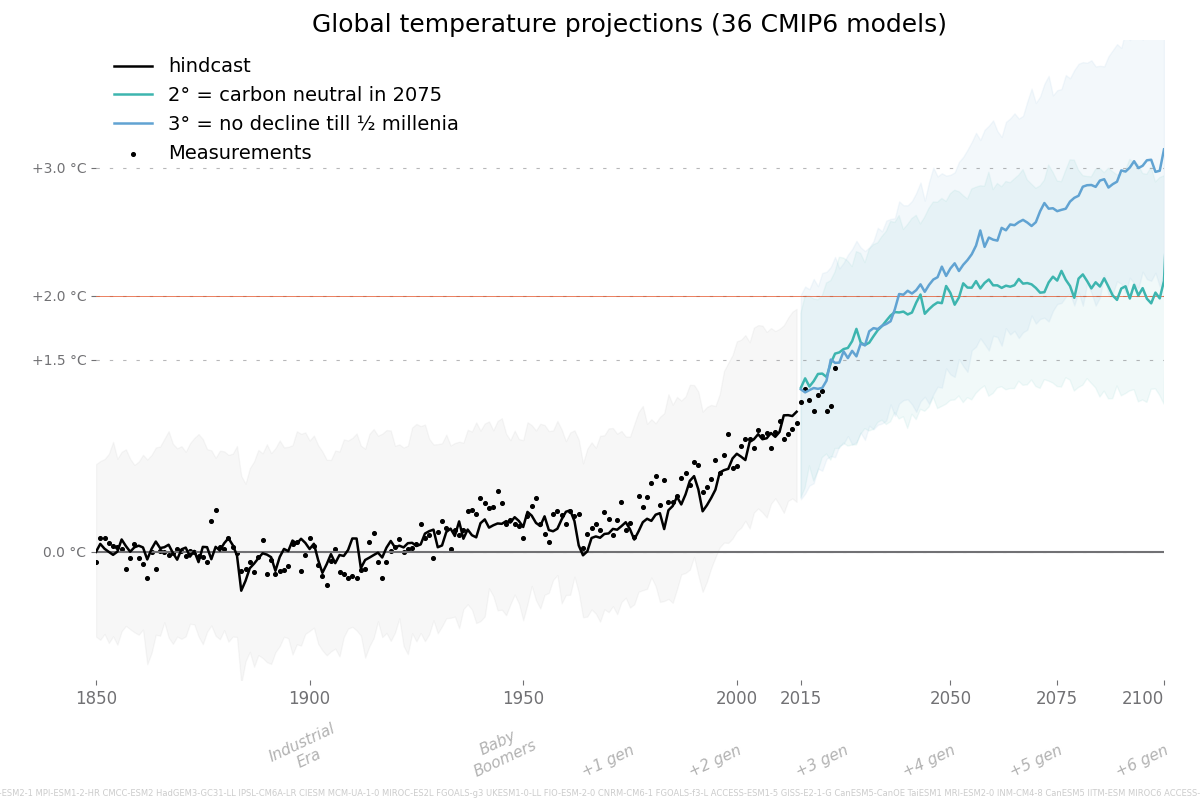
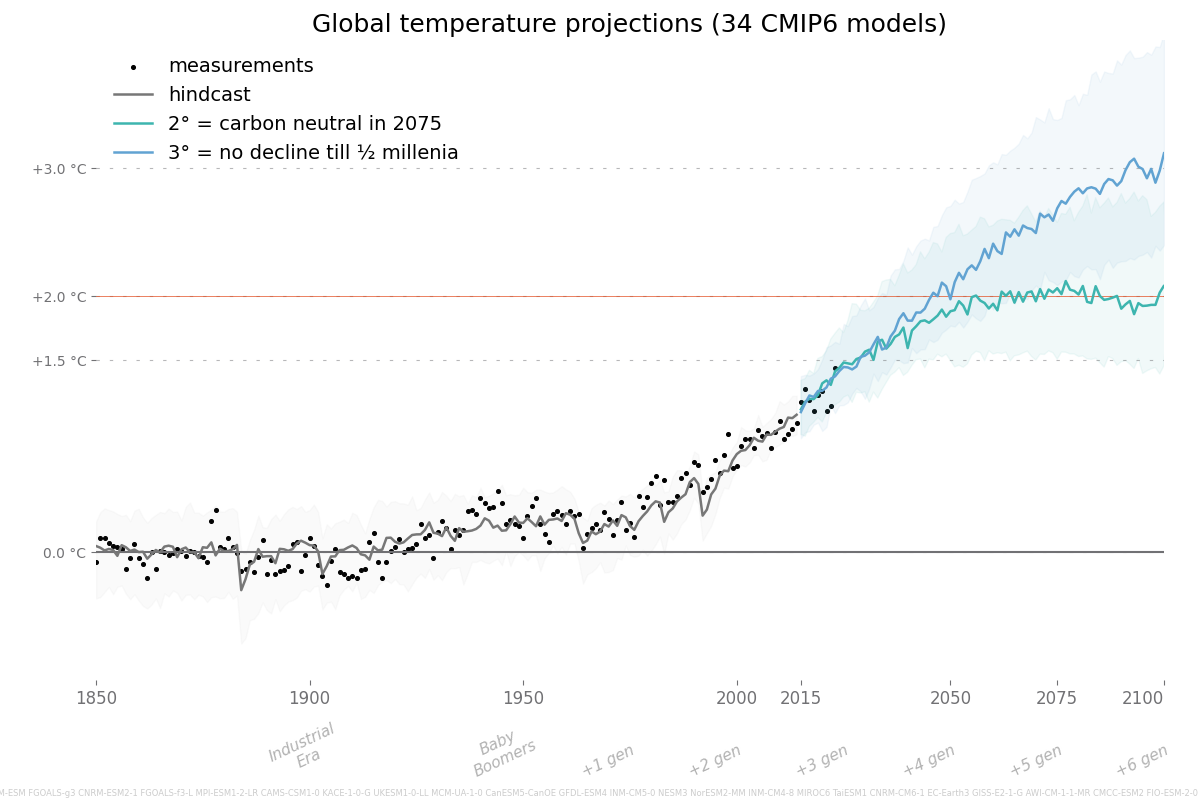
normalized to 1995-2014 mean

diff --git a/ClimateProjections.py b/ClimateProjections.py
@@ -89,8 +89,8 @@ def GlobalTemperature():
 
   data = normalize(data)
   
-  #data = models_with_all_experiments(data, drop_experiments=['ssp119'], dont_count_historical=True)
-  data = models_with_all_experiments(data, dont_count_historical=True)
+  data = models_with_all_experiments(data, drop_experiments=['ssp119'], dont_count_historical=True)
+  #data = models_with_all_experiments(data, dont_count_historical=True)
   
   quantile_ranges = quantiles(data, (.1, .5, .9))
   model_set = set(data.model.values.flat)
@@ -499,15 +499,17 @@ def cleanUpData(data):
   except Exception as e: print(f"Error: {type(e).__name__}: {e}"); traceback.print_exc()  
 
 def normalize(data):
-  return data
-  model_mean = data.sel(year=slice(forecast_from-20, forecast_from-1)).mean(dim='year')
+  
+  model_mean = data.sel(experiment='historical').sel(year=slice(forecast_from-20, forecast_from-1)).mean(dim='year')
 
-  global_mean = model_mean.sel(experiment='historical').mean(dim='model')
+  global_mean = model_mean.mean(dim='model').item()
 
   normalization_offset = model_mean - global_mean
-  normalization_offset_expanded = normalization_offset.expand_dims(dim={'year': data.year}).transpose('model', 'experiment', 'year')
+  normalization_offset_expanded = normalization_offset.expand_dims(dim={'year': data.year}).transpose('model', 'year')
 
   normalized_data = data - normalization_offset_expanded
+
+  #print(f"NORMALIZED {normalized_data.sel(experiment='ssp126', model=normalized_data.model.values.flat[0], year=slice(2014,2015))}")
 
   return normalized_data
 
